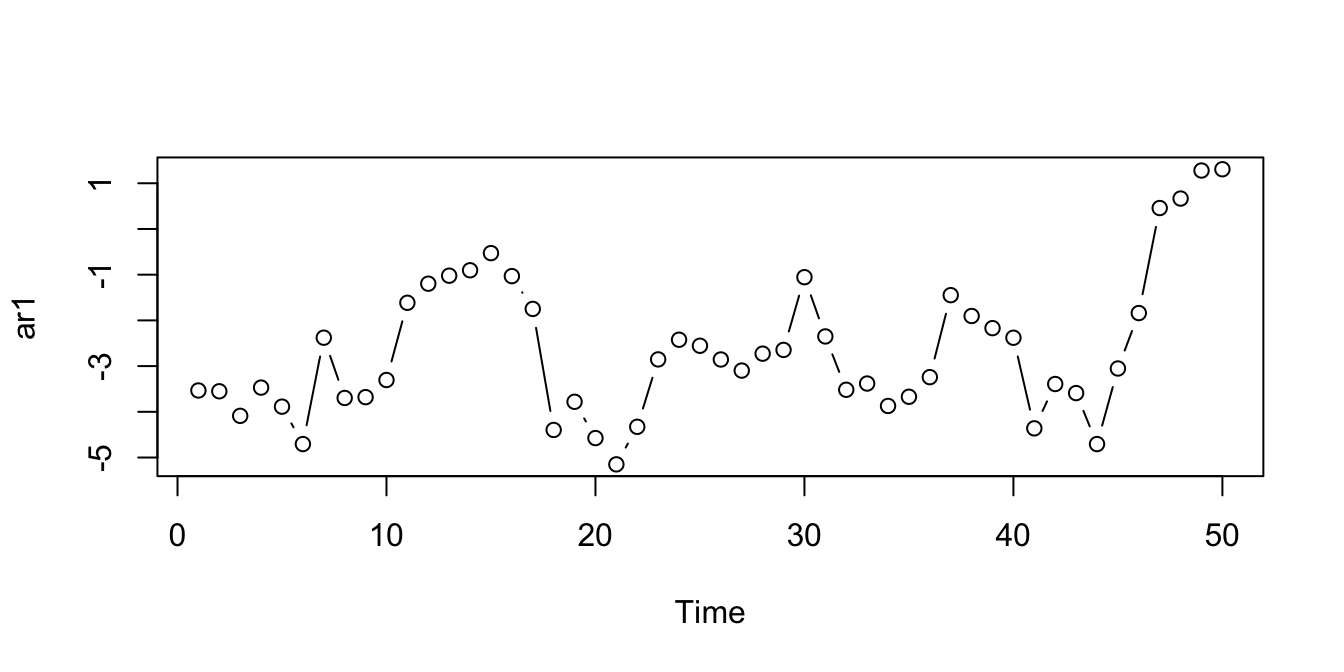
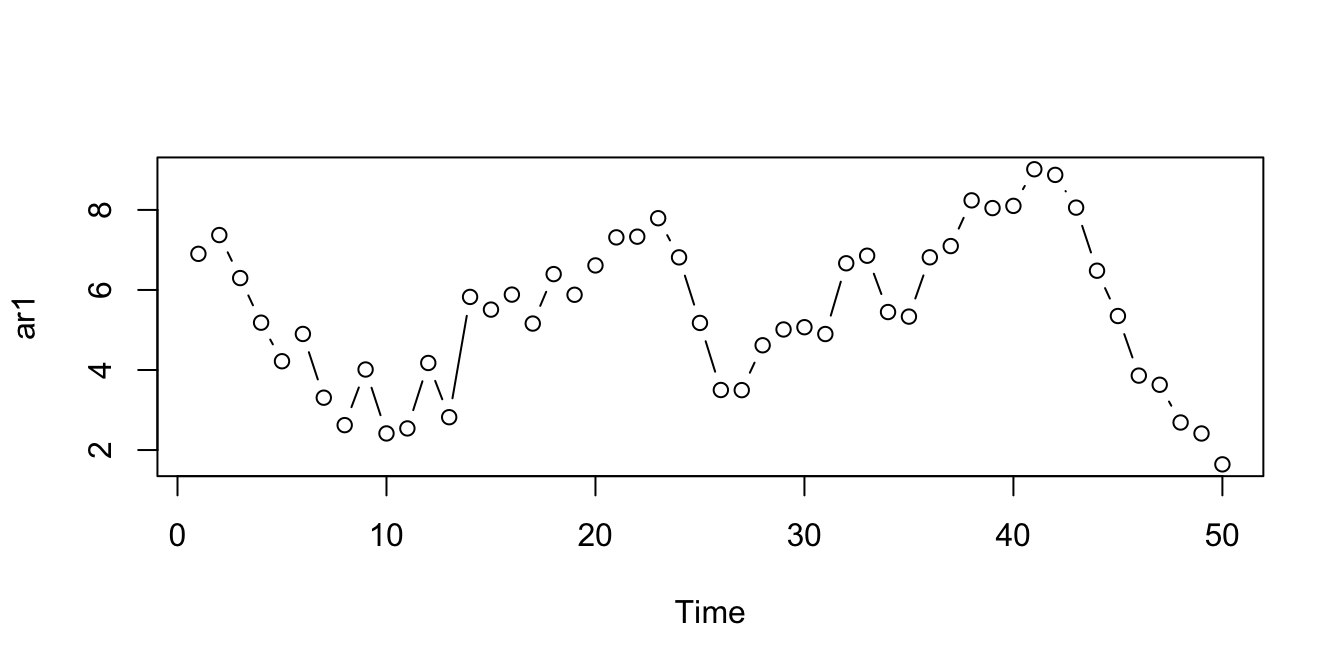
Fixed playlist for AR(p)

diff --git a/docs/ar.html b/docs/ar.html
@@ -157,8 +157,10 @@ code span.wa { color: #60a0b0; font-weight: bold; font-style: italic; } /* Warni
             <section class="normal" id="section-">
 <div id="ar" class="section level1">
 <h1><span class="header-section-number"> 3</span> AR(p)</h1>
-<iframe src="https://player.vimeo.com/video/467119445" width="640" height="360" frameborder="0" allow="autoplay; fullscreen" allowfullscreen>
+<div style="padding:56.25% 0 0 0;position:relative;">
+<iframe src="https://vimeo.com/showcase/7661169/embed" allowfullscreen frameborder="0" style="position:absolute;top:0;left:0;width:100%;height:100%;">
 </iframe>
+</div>
 <div id="kontrollspørsmål" class="section level2">
 <h2><span class="header-section-number">3.1</span> Kontrollspørsmål</h2>
 <ol style="list-style-type: decimal">
@@ -191,19 +193,19 @@ code span.wa { color: #60a0b0; font-weight: bold; font-style: italic; } /* Warni
 ## lm(formula = Y ~ lagged_Y, data = df)
 ## 
 ## Residuals:
-##      Min       1Q   Median       3Q      Max 
-## -2.58107 -0.52836 -0.09462  0.58612  2.34892 
+##     Min      1Q  Median      3Q     Max 
+## -1.6887 -0.9039 -0.1254  0.7512  2.7603 
 ## 
 ## Coefficients:
 ##             Estimate Std. Error t value Pr(&gt;|t|)    
-## (Intercept) -0.36525    0.30462  -1.199    0.237    
-## lagged_Y     0.82938    0.09901   8.376 7.03e-11 ***
+## (Intercept)   0.6090     0.4834    1.26    0.214    
+## lagged_Y      0.8710     0.0828   10.52  6.1e-14 ***
 ## ---
 ## Signif. codes:  0 &#39;***&#39; 0.001 &#39;**&#39; 0.01 &#39;*&#39; 0.05 &#39;.&#39; 0.1 &#39; &#39; 1
 ## 
-## Residual standard error: 0.997 on 47 degrees of freedom
-## Multiple R-squared:  0.5989,	Adjusted R-squared:  0.5903 
-## F-statistic: 70.16 on 1 and 47 DF,  p-value: 7.028e-11</code></pre>
+## Residual standard error: 1.046 on 47 degrees of freedom
+## Multiple R-squared:  0.7019,	Adjusted R-squared:  0.6955 
+## F-statistic: 110.6 on 1 and 47 DF,  p-value: 6.099e-14</code></pre>
 <p>Vi ser at vårt estimat av <span class="math inline">\(\phi\)</span>, som i regresjonutskriften er koeffisienten til <code>lagged_Y</code>, er i nærheten av den sanne verdien 0.95, men med så få observasjoner kan det godt hende at ditt estimat er noe forskjellig. Poenget er: vi kan bruke lineær regresjon til å estimere koeffisientene i en AR-modell basert på observasjoner.</p>
 <p>Som i forrige oppgave er pakken <code>forecast</code> svært nyttig for estimering og predikering:</p>
 <div class="sourceCode" id="cb17"><pre class="sourceCode r"><code class="sourceCode r"><a class="sourceLine" id="cb17-1" data-line-number="1"><span class="kw">library</span>(forecast)</a></code></pre></div>
@@ -213,12 +215,12 @@ code span.wa { color: #60a0b0; font-weight: bold; font-style: italic; } /* Warni
 ## ARIMA(1,0,0) with non-zero mean 
 ## 
 ## Coefficients:
-##          ar1     mean
-##       0.8112  -2.4153
-## s.e.  0.0907   0.6821
+##          ar1    mean
+##       0.8584  5.2393
+## s.e.  0.0753  0.9243
 ## 
-## sigma^2 estimated as 0.9846:  log likelihood=-70.07
-## AIC=146.15   AICc=146.67   BIC=151.88</code></pre>
+## sigma^2 estimated as 1.091:  log likelihood=-72.77
+## AIC=151.55   AICc=152.07   BIC=157.28</code></pre>
 <p>I første omgang kan vi legge merke til at vi har spesifisert <em>hvilken</em> modell vi ønsker å estimere gjennom argumentet <code>order = c(1, 0, 0)</code>, der ett-tallet angir AR-modellens orden <span class="math inline">\(p\)</span>, som i dette tilfellet er 1. Dersom du mistenker at AR(2)-modellen gir en bedre beskrivelse av tidsrekken din, kan du endre til <code>order = c(2, 0, 0)</code>. Vi kommer tilbake til spørsmålet om hvordan du kan velge den beste modellen for et gitt praktisk problem.</p>
 <p>Legg merke til at de to estimatene ikke er identiske selv om vi bruker det samme tidsrekken. Det er fordi <code>arima()</code>-funksjonen ikke bruker minste kvadraters metode til å regne ut estimatene (slik <code>lm()</code> gjør), men heller bruker en annen estimeringsteknikk som heter <em>maximum likelihood</em>.</p>
 <p><strong>3. Predikere.</strong> For predikering bruker vi funksjonen <code>forecast()</code>, som tar en estimert modell som input, og som bruker modellen til å skrive frem tidsrekken ved å estimere fremtidige verdier.</p>
